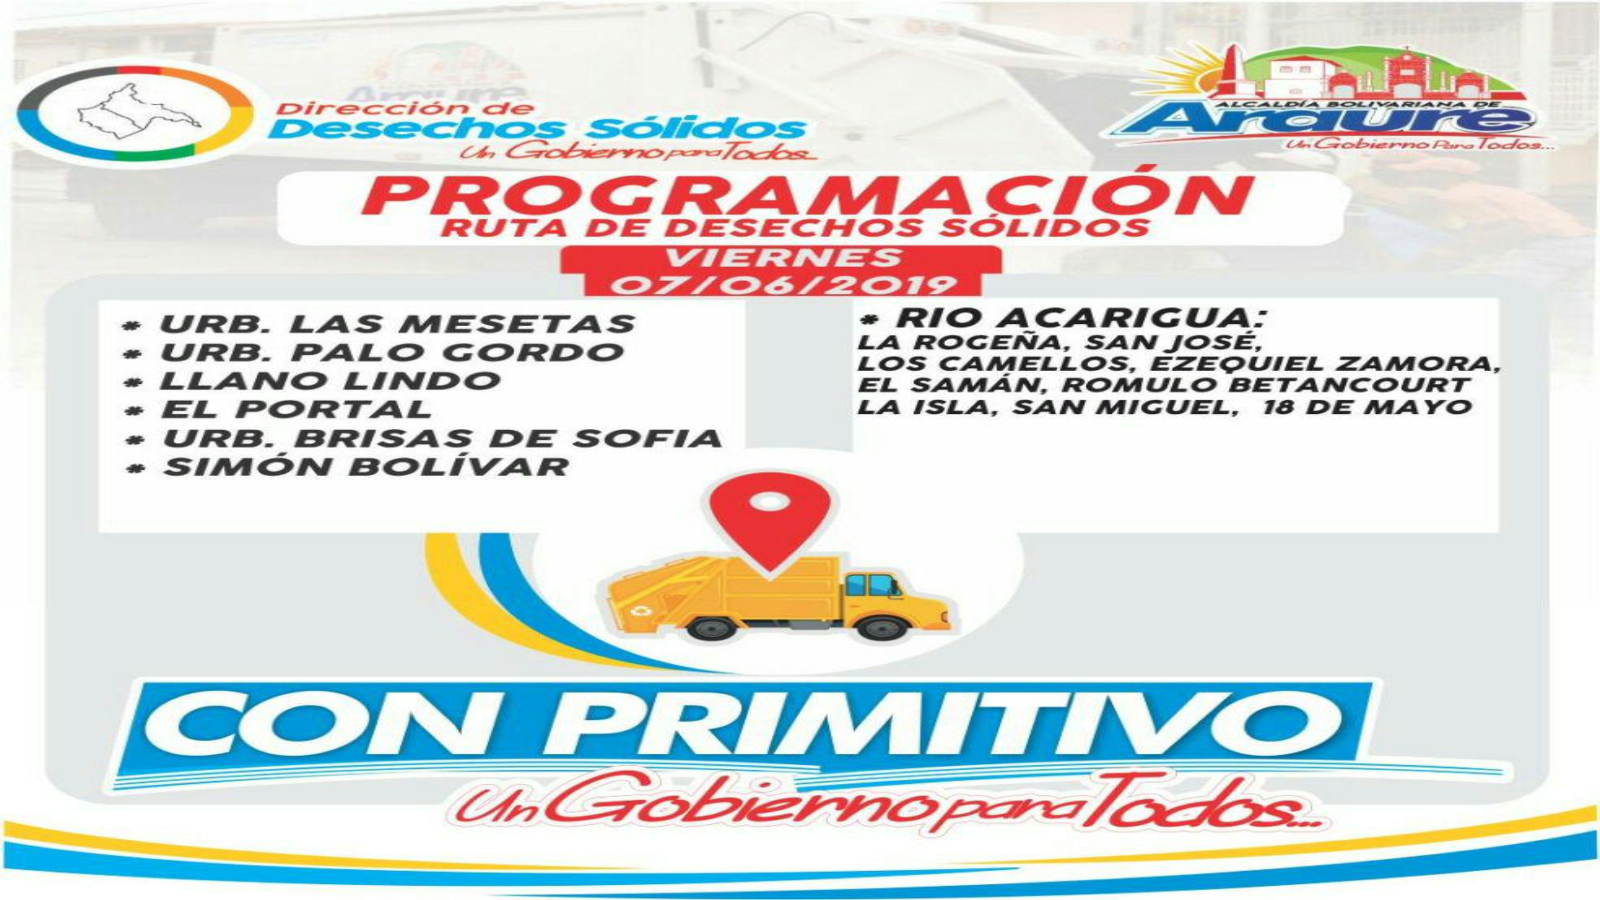
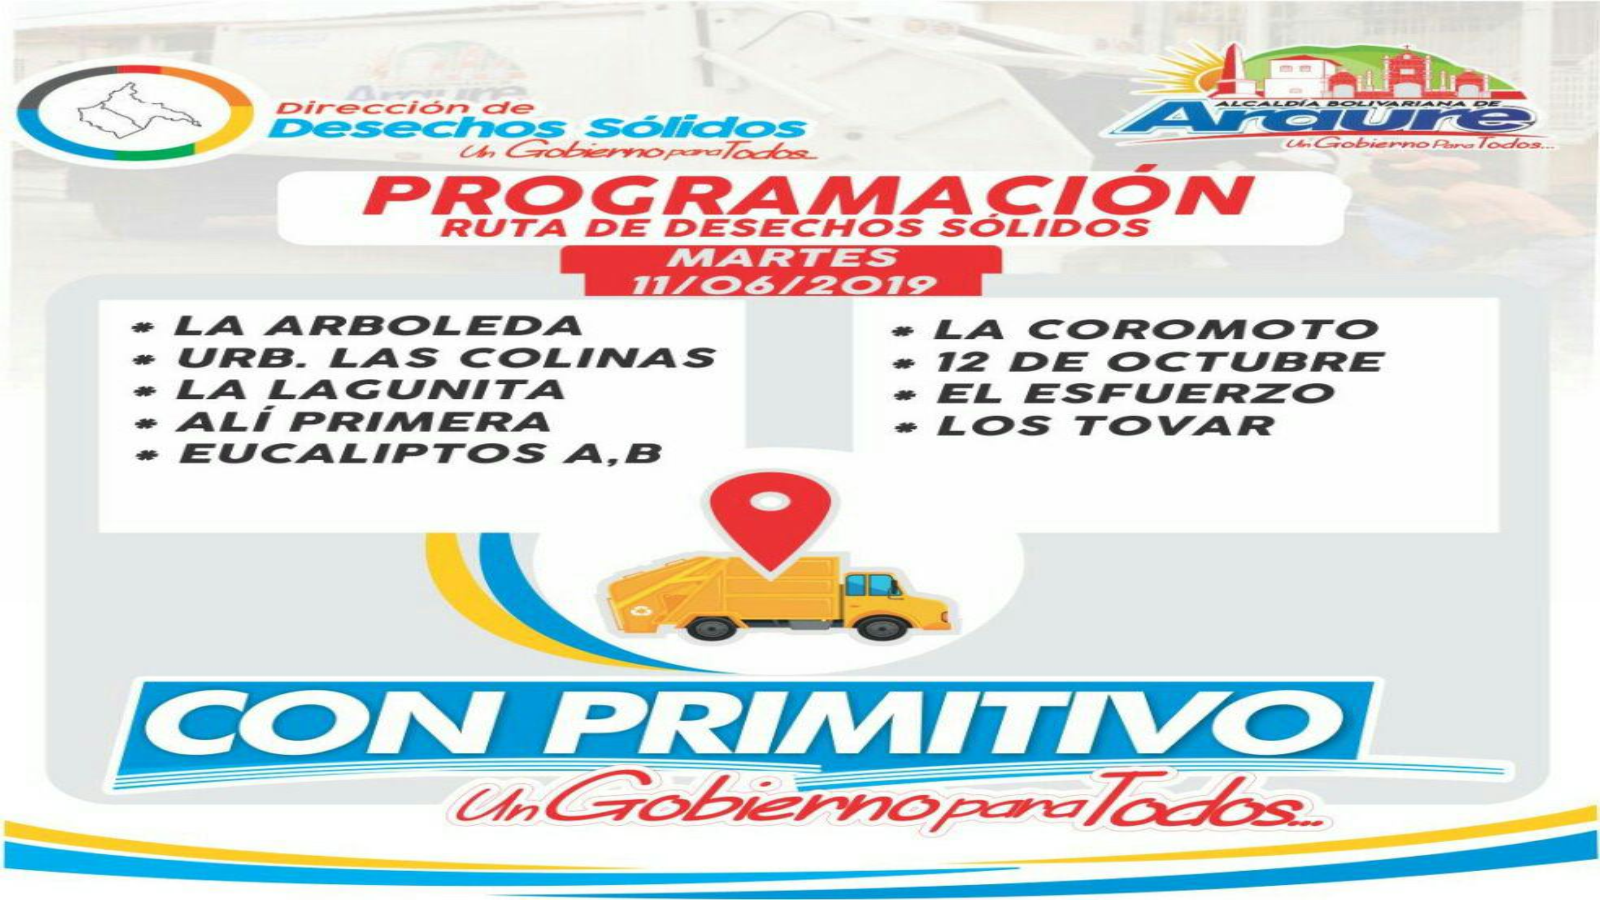
aviso del aseo

diff --git a/html/index.html b/html/index.html
@@ -94,16 +94,16 @@
                           }  
                          </script>
                          <!--Colocar Aviso -->
-                <div id="popup"  class="popup hidden-xs" style="display: block; left: 28%; position: fixed;">
+             <!--<div id="popup"  class="popup hidden-xs" style="display: block; left: 28%; position: fixed;">
                           <a onclick="closeDialog('popup');" class="close"></a>
-                            <!-- <img src="./img/Avisos_importantes/2019/registro.png" width="640" height="360"/> -->
+                     <img src="./img/Avisos_importantes/2019/registro.png" width="640" height="360"/>
                     <div> 
-                          <!--PARA CORRER VIDEO -->
+                       -PARA CORRER VIDEO 
                            <video width="640" height="360" controls>
                                 <source src="./img/Avisos_importantes/videos/1.webm" type="video/webm"> 
                                 </video>
                                 </div>
-                  </div>
+                  </div>-->
                                      <!--/.navbar-collapse-->
 
                   
@@ -241,7 +241,7 @@
                         <div class="flexslider left">
                             <ul class="slides">
                            <li>    <!-- Slide 1 -->
-                                 <img src="./img/Avisos_importantes/2019/escolar.png">
+                                 <img src="./img/Avisos_importantes/2019/aseo.png">
                                     <div class="meta">
                                   <!--  <h1>Lorem ipsum dolor sit amet, consectetur.</h1>-->
                                         
@@ -249,7 +249,7 @@
                                  </div>
                                 </li> 
                                 <li>   <!-- Slide 2 -->
-                                <img src="./img/Avisos_importantes/2019/cerrito.png">
+                                <img src="./img/Avisos_importantes/2019/sigue.png">
                                     <div class="meta"> 
                                     <!-- <h1>Lorem ipsum dolor sit amet, consectetur.</h1>
                                         <h2>Lorem ipsum dolor sit.</h2>-->
